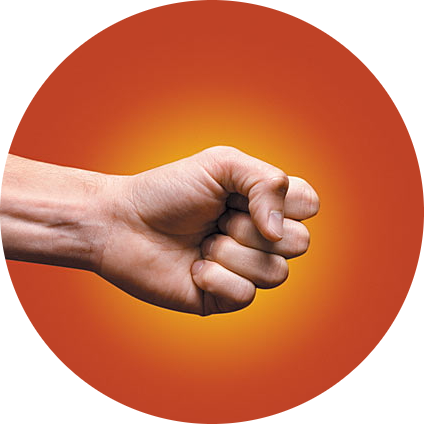
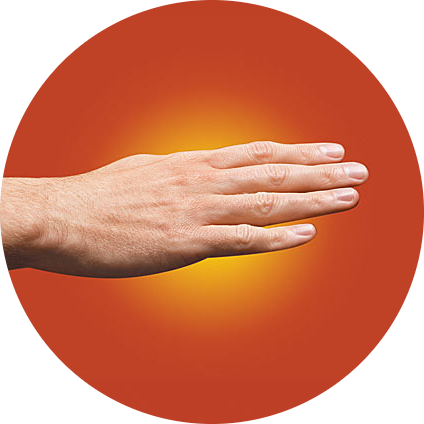
add JavaScript and CSS styles

Changed region(s): [[0.0, 0.3066, 0.8892, 0.8892]]

diff --git a/index.js b/index.js
@@ -1,0 +1,42 @@
+var playerNum1 = Math.floor(Math.random() * 3) + 1;
+var playerNum2 = Math.floor(Math.random() * 3) + 1;
+
+// Random number assignment: 1-scissors, 2-paper, 3-rock
+
+document.querySelector(".img1").setAttribute("src", "images/player1_" + playerNum1 + ".png");
+document.querySelector(".img2").setAttribute("src", "images/player2_" + playerNum2 + ".png");
+
+if(playerNum1 === 3 && playerNum2 === 1 ) {
+    // rock beats scissors
+    // player 1 wins 
+    document.querySelector("h1").textContent = "🏆 Player 1 Wins!"
+}
+else if(playerNum1 === 3 && playerNum2 === 2) {
+    // paper beats rock
+    // player 2 wins
+    document.querySelector("h1").textContent = "Player 2 Wins! 🏆"
+}
+else if(playerNum1 === 2 && playerNum2 == 1) {
+    // scissors beats paper
+    // player 2 wins
+    document.querySelector("h1").textContent = "Player 2 Wins! 🏆"
+}
+else if(playerNum1 === 1 && playerNum2 === 2) {
+    // scissors beats paper
+    // player 1 wins
+    document.querySelector("h1").textContent = "🏆 Player 1 Wins!"
+}
+else if(playerNum1 === 1 && playerNum2 === 3) {
+    // rock beats scissors
+    // player 2 wins
+    document.querySelector("h1").textContent = "Player 2 Wins! 🏆"
+}
+else if(playerNum1 === 2 && playerNum2 === 3) {
+    // paper beats rock
+    // player 1 wins
+    document.querySelector("h1").textContent = "🏆 Player 1 Wins!"
+}
+else if (playerNum1 === playerNum2) {
+    // draw
+    document.querySelector("h1").textContent = "Draw!"
+}

diff --git a/css/styles.css b/css/styles.css
@@ -30,5 +30,8 @@ img {
 }
 
 footer {
+    font-family: 'Press Start 2P', cursive;
     text-align: center;
+    color: #D92027;
+    margin: 2% 15%;
 }

diff --git a/index.html b/index.html
@@ -30,6 +30,7 @@
         </div>
     </div>
 
+    <script src="index.js" charset="utf-8"></script> 
 </body>
 
 <footer>
